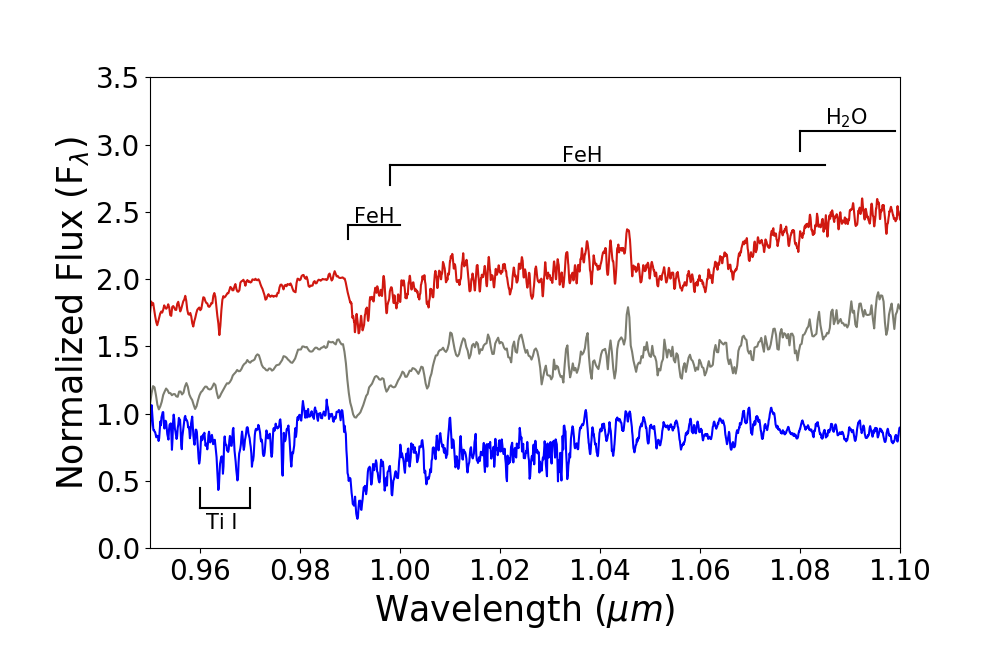
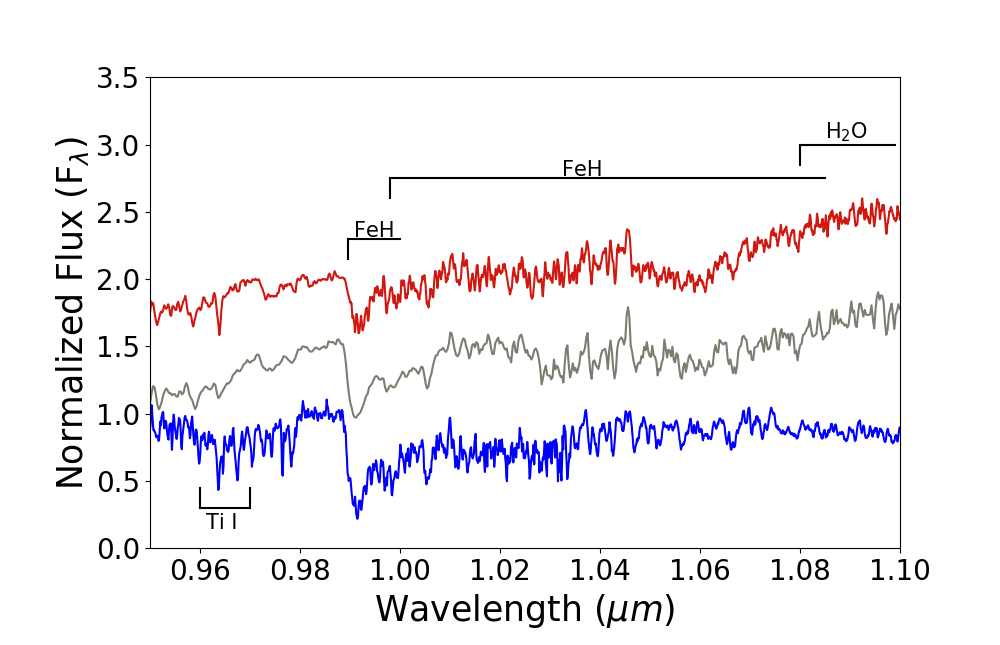
moved labels down

Changed region(s): [[0.372, 0.2171, 0.837, 0.2791], [0.806, 0.155, 0.868, 0.2481], [0.341, 0.3101, 0.403, 0.3721]]

diff --git a/Ybandteff.py b/Ybandteff.py
@@ -69,33 +69,33 @@ plt.plot(Ti1up2['x'], Ti1up2['y'], color='k')
 # --- To make line for feature
 FeH1 = pd.DataFrame()
 FeH1['x'] = [0.9896, 1.0]
-FeH1['y'] = [2.4, 2.4]
+FeH1['y'] = [2.3, 2.3]
 plt.plot(FeH1['x'], FeH1['y'], color='k')
-ax1.text(0.272, 0.69, 'FeH', transform=ax1.transAxes, color='k', fontsize=15)
+ax1.text(0.272, 0.66, 'FeH', transform=ax1.transAxes, color='k', fontsize=15)
 # -- To make a vertical line
 FeH1d = pd.DataFrame()
 FeH1d['x'] = [0.9896, 0.9896]
-FeH1d['y'] = [2.3, 2.4]
+FeH1d['y'] = [2.15, 2.3]
 plt.plot(FeH1d['x'], FeH1d['y'], color='k')
 
 FeH2 = pd.DataFrame()
 FeH2['x'] = [0.998, 1.085]
-FeH2['y'] = [2.85, 2.85]
+FeH2['y'] = [2.75, 2.75]
 plt.plot(FeH2['x'], FeH2['y'], color='k')
-ax1.text(0.55, 0.82, 'FeH', transform=ax1.transAxes, color='k', fontsize=15)
+ax1.text(0.55, 0.79, 'FeH', transform=ax1.transAxes, color='k', fontsize=15)
 FeH2d = pd.DataFrame()
 FeH2d['x'] = [0.998, 0.998]
-FeH2d['y'] = [2.7, 2.85]
+FeH2d['y'] = [2.6, 2.75]
 plt.plot(FeH2d['x'], FeH2d['y'], color='k')
 
 H2O = pd.DataFrame()
 H2O['x'] = [1.08, 1.099]
-H2O['y'] = [3.1, 3.1]
+H2O['y'] = [3, 3]
 plt.plot(H2O['x'], H2O['y'], color='k')
-ax1.text(0.9, 0.9, 'H$_\mathrm{2} $O', transform=ax1.transAxes, color='k', fontsize=15)
+ax1.text(0.9, 0.87, 'H$_\mathrm{2} $O', transform=ax1.transAxes, color='k', fontsize=15)
 H2Od = pd.DataFrame()
 H2Od['x'] = [1.08, 1.08]
-H2Od['y'] = [2.95, 3.1]
+H2Od['y'] = [2.85, 3]
 plt.plot(H2Od['x'], H2Od['y'], color='k')
 
 plt.savefig('Plots/YbandTeff.png')
